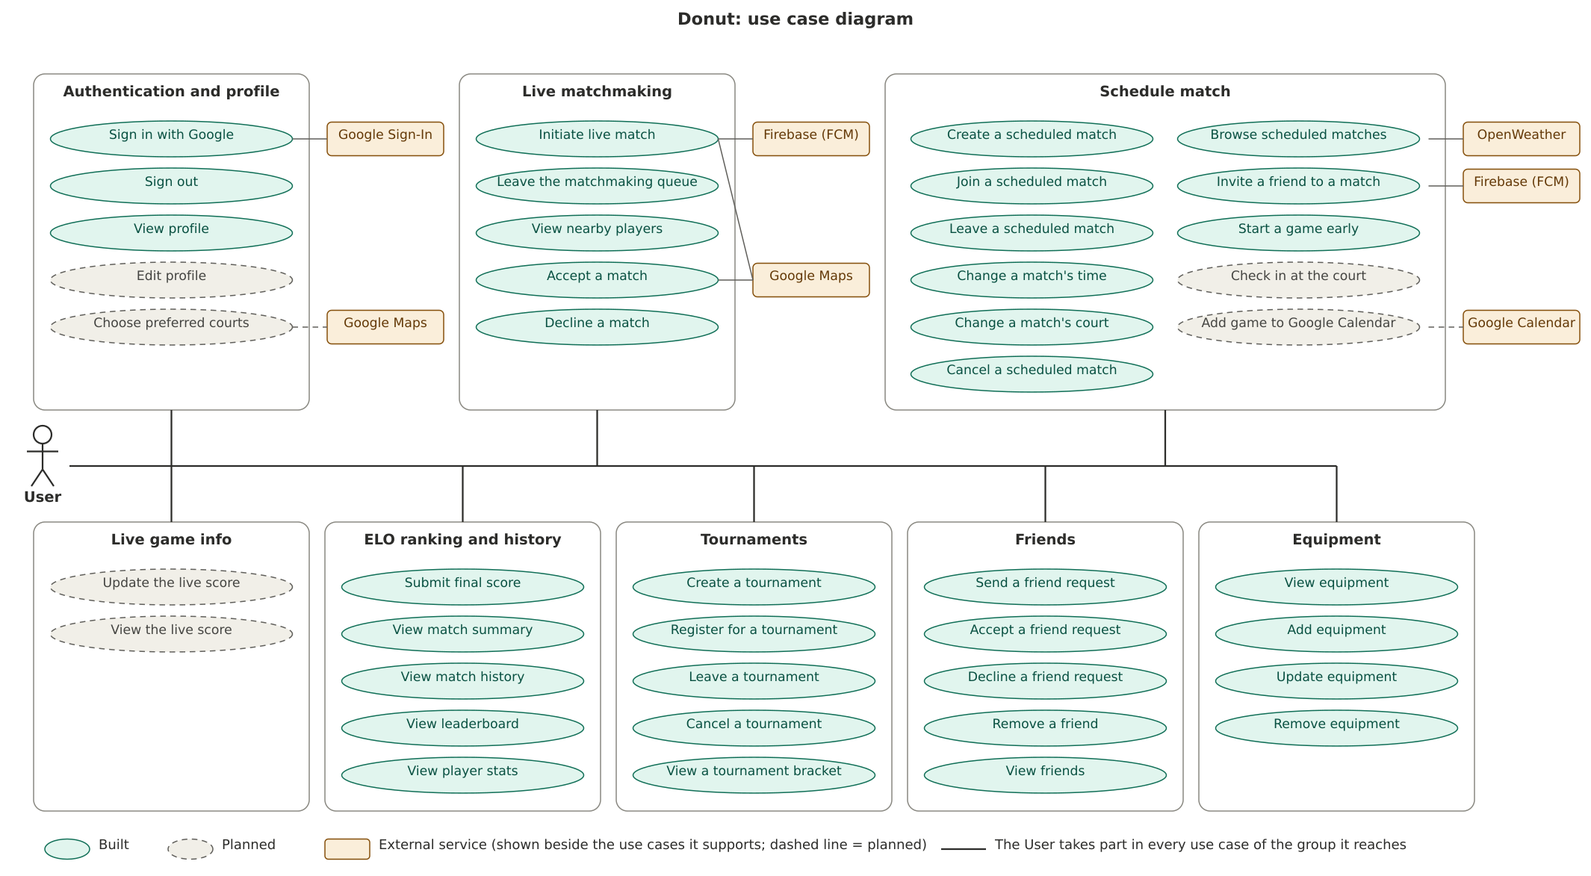
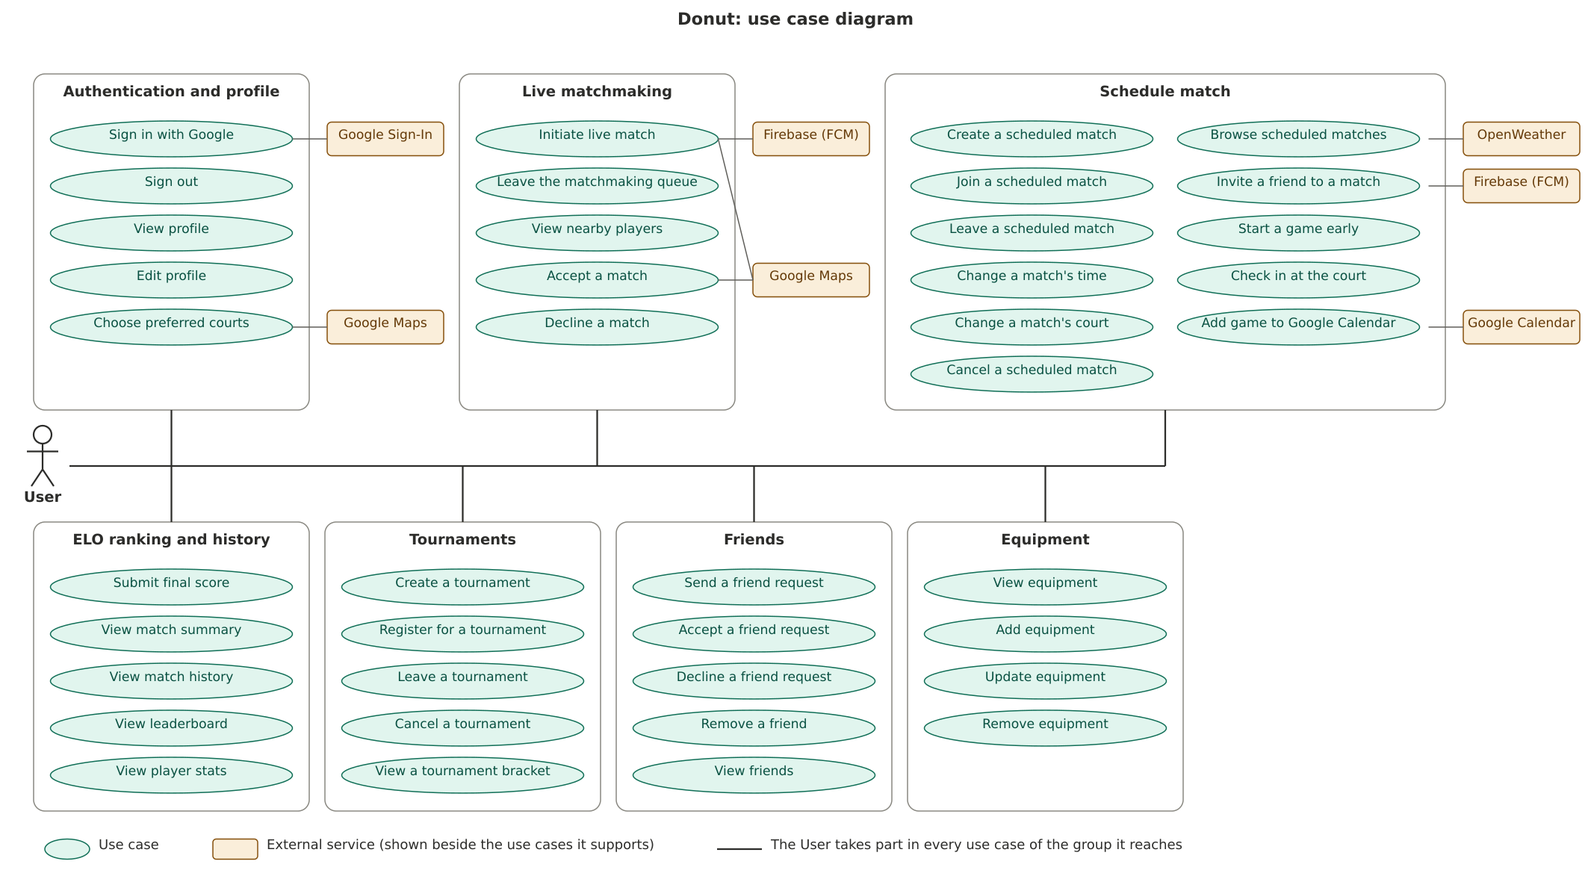
fix: some semantic stuff

diff --git a/documentation/Requirements_and_Design.md b/documentation/Requirements_and_Design.md
@@ -13,7 +13,7 @@
 | Nov 3, 2026 | 4.1, 4.2 | Added the Friends component and its `friendships` table. |
 | Nov 3, 2026 | 4.1 | Added `GET /games/history` and each player's `ratingBefore` and `ratingAfter`. |
 | Nov 3, 2026 | 4.1 | Added `POST /games/invite`, and updated `DELETE /games` for matched games. |
-| Nov 3, 2026 | All | Shortened the document and matched it to the code: token auth (`/user/refresh`, `/user/logout`), equipment, location-based matchmaking (`/matchmaking`, `POST /games/accept`, the deadline job), no game owner, and the libraries in use. Unbuilt parts are marked *(planned)*. |
+| Nov 3, 2026 | All | Shortened the document and matched it to the code: token auth (`/user/refresh`, `/user/logout`), equipment, location-based matchmaking (`/matchmaking`, `POST /games/accept`, the deadline job), no game owner, and the libraries in use. |
 | Nov 3, 2026 | 3.1, 3.3, 3.5 (Use Case 4), 4.3 | A scheduled game's court is picked from a list; the map shows a matched game's court. |
 | Nov 18, 2026 | 4.1 | The ELO K-factor depends on each player's number of rated games (`calculateKFactor`), counted by `applyGameResult`. |
 | Nov 18, 2026 | 3.1, 4.1 | Added player stats: `GET /stats` and the stats screen with the ELO chart. |
@@ -21,6 +21,7 @@
 | Nov 18, 2026 | 4.1 | `GET /games` and `GET /games/me` return each game's forecast too, so the game screen and the caller's games show the weather. |
 | Nov 19, 2026 | 4.1 | Live updates over Server-Sent Events for games, the Games tab, tournaments and friends. Games are `IN_PROGRESS` only once started with `POST /games/start`, and only then scored. Friends show the game they are playing. |
 | Nov 20, 2026 | 3.1, 3.2, 3.4, 3.5, 4.6 | Reviewer feedback on features and use cases: split use cases that had more than one goal, added the missing user-facing use cases (sign out, profile, leave the queue, decline a match, friends, equipment, match history, stats), moved system-only steps out of the use case list and gave every use case an active, user-focused name. Redrew the use case diagram. |
+| Nov 20, 2026 | 3.1, 3.2, 3.3, 3.4, 3.5, 3.7, 4.1, 4.3, 4.6, 4.7 | Every feature that was not yet built is now implemented, so the notes saying so are removed. Removed the live score feature, its use cases and its non-functional requirement: players report the score once after the game. Added a fifth formal use case, Join a scheduled match. |
 
 ---
 
@@ -35,19 +36,16 @@ Donut is a matchmaking and ranking app for recreational tennis players (singles 
 ### **3.1. List of Features**
 
 #### **Authentication**
-Users sign in with Google. The backend then issues its own access and refresh tokens. Users can sign out and view their profile. Editing the profile and picking preferred courts on a map are *(planned)*.
+Users sign in with Google. The backend then issues its own access and refresh tokens. Users can sign out, view and edit their profile, and pick their preferred courts on a map.
 
 #### **Live matchmaking**
 Users pick a format (singles, doubles or either) and where they want to play. The system matches nearby players with similar ratings, books a game one hour later at a nearby court and notifies everyone. The game is booked once every player accepts.
 
 #### **Schedule match**
-Users schedule a game for a future time at a court they pick from a list. It shows in the feed with the weather forecast, and others can join it or be invited by a friend. Adding it to Google Calendar is *(planned)*.
-
-#### **Live game info update** *(planned)*
-During a game, a player updates the score, and it syncs live to every other player's device.
+Users schedule a game for a future time at a court they pick from a list. It shows in the feed with the weather forecast, and others can join it or be invited by a friend. Users can add it to Google Calendar.
 
 #### **ELO ranking**
-After a game's final score is reported, every player's ELO rating changes, and a leaderboard ranks players by rating. A player's stats screen shows their ELO over time, their match, set and game totals, and how they do against opponents of different ratings.
+After a game's final score is reported once the game is over, every player's ELO rating changes, and a leaderboard ranks players by rating. A player's stats screen shows their ELO over time, their match, set and game totals, and how they do against opponents of different ratings.
 
 #### **Tournaments**
 Users create an 8-team single-elimination tournament (singles or doubles) that players register for from the feed. When it fills, the system forms and seeds the teams, draws the bracket and books the quarterfinals. Each reported score moves the winner on, up to the champion.
@@ -55,14 +53,14 @@ Users create an 8-team single-elimination tournament (singles or doubles) that p
 Supporting features: **friends** (requests, friends list, adding players from a match summary), **match history** with a summary per game, and **equipment** tracking (rackets, balls, shoes, with maintenance dates).
 
 **Project scope requirements:**
-- **External API**: Google Maps (picking courts), Google Places (picking where to play), OpenWeather (feed forecasts), Google Calendar *(planned)*.
-- **External event**: match notifications and game invites through Firebase Cloud Messaging; live score updates *(planned)*.
+- **External API**: Google Maps (picking courts), Google Places (picking where to play), OpenWeather (feed forecasts), Google Calendar (adding booked games).
+- **External event**: match notifications and game invites through Firebase Cloud Messaging.
 - **Our own computation**: the matching algorithm, ELO with margin of victory, and the tournament draw (rating-based seeding, balanced doubles teams, moving winners through the bracket).
 
 ### **3.2. Use Case Diagram**
 ![Use case diagram](images/use_case_diagram.png)
 
-Each use case is one goal that the User pursues directly, grouped by feature. To keep the diagram readable, the User is joined to each feature group with one line instead of one line per use case, and the User takes part in every use case in the group. Dashed use cases are *(planned)*. External services are drawn with plain lines because they support use cases but never start one; an external service that supports several groups is drawn beside each of them. Steps done by the system alone (matchmaking, cancelling unanswered matches, syncing live scores, the ELO calculation, updating the leaderboard, drawing the bracket) are not use cases; §3.4 describes them as steps of use cases 6, 9, 10, 22, 24 and 30. Viewing a tournament bracket (33) leads to playing its matches, which are use cases 19 and 24.
+Each use case is one goal that the User pursues directly, grouped by feature. To keep the diagram readable, the User is joined to each feature group with one line instead of one line per use case, and the User takes part in every use case in the group. External services are drawn with plain lines because they support use cases but never start one; an external service that supports several groups is drawn beside each of them. Steps done by the system alone (matchmaking, cancelling unanswered matches, the ELO calculation, updating the leaderboard, drawing the bracket) are not use cases; §3.4 describes them as steps of use cases 6, 9, 10, 22 and 28. Viewing a tournament bracket (31) leads to playing its matches, which are use cases 19 and 22.
 
 ### **3.3. Actors Description**
 1. **User**: a tennis player who signs in with Google, joins or is matched into games, and reports scores. Every player in a game has the same permissions on it.
@@ -70,7 +68,7 @@ Each use case is one goal that the User pursues directly, grouped by feature. To
 3. **Google Maps Platform**: shows a matched game's court on a map, and Places looks up where a player wants to play.
 4. **Firebase Cloud Messaging**: delivers match notifications and game invites.
 5. **OpenWeather**: supplies forecasts for the feed.
-6. **Google Calendar** *(planned)*: stores booked games in the player's calendar.
+6. **Google Calendar**: stores booked games in the player's calendar.
 
 ### **3.4. Use Case Description**
 Each use case is one goal of one user, named with an active verb. The numbers match the diagram in §3.2.
@@ -79,8 +77,8 @@ Each use case is one goal of one user, named with an active verb. The numbers ma
 1. **Sign in with Google**: The user signs in with their Google account; the server creates their account the first time and returns tokens.
 2. **Sign out**: The user signs out, and the server revokes their refresh token.
 3. **View profile**: The user views their profile and rating.
-4. **Edit profile** *(planned)*: The user changes their profile details.
-5. **Choose preferred courts** *(planned)*: The user picks their preferred courts on a map.
+4. **Edit profile**: The user changes their profile details.
+5. **Choose preferred courts**: The user picks their preferred courts on a map.
 
 - Feature 2: Live matchmaking
 6. **Initiate live match**: The user picks a format and a location (their current location or an address) and joins the queue. The system then looks for a match (see *System steps* below).
@@ -99,46 +97,41 @@ Each use case is one goal of one user, named with an active verb. The numbers ma
 17. **Change a match's court**: A player moves the game to another court.
 18. **Cancel a scheduled match**: A player cancels the game for everyone.
 19. **Start a game early**: A player of a booked game taps "Start now" so the game can start before its start time and be scored.
-20. **Check in at the court** *(planned)*: Each player confirms they are at the court within 30 minutes of the start, or the game is cancelled.
-21. **Add game to Google Calendar** *(planned)*: The user adds a booked game to their calendar.
+20. **Check in at the court**: Each player confirms they are at the court within 30 minutes of the start, or the game is cancelled.
+21. **Add game to Google Calendar**: The user adds a booked game to their calendar.
 
-- Feature 4: Live game info update *(planned)*
-22. **Update the live score** *(planned)*: A player updates the score during the game.
-23. **View the live score** *(planned)*: A player sees the score update on their device while the game is played.
+- Feature 4: ELO ranking and history
+22. **Submit final score**: Once the game has started, a player reports the final score, and every player sees the match summary with their rating change. A tournament match is reported the same way.
+23. **View match summary**: The user views a finished game's score and each player's rating before and after.
+24. **View match history**: The user views their finished games, most recent first.
+25. **View leaderboard**: The user views players ranked by rating, with their own rank.
+26. **View player stats**: The user views a player's ELO over time, match, set and game totals, and results against opponents of different ratings.
 
-- Feature 5: ELO ranking and history
-24. **Submit final score**: Once the game has started, a player reports the final score, and every player sees the match summary with their rating change. A tournament match is reported the same way.
-25. **View match summary**: The user views a finished game's score and each player's rating before and after.
-26. **View match history**: The user views their finished games, most recent first.
-27. **View leaderboard**: The user views players ranked by rating, with their own rank.
-28. **View player stats**: The user views a player's ELO over time, match, set and game totals, and results against opponents of different ratings.
+- Feature 5: Tournaments
+27. **Create a tournament**: The user creates a tournament with a name, format, court and start time, and is registered as its first player.
+28. **Register for a tournament**: The user registers from the feed until it is full (8 players in singles, 16 in doubles) or starts. The registration that fills it triggers the bracket draw (see *System steps* below).
+29. **Leave a tournament**: The user leaves during registration. The creator can't leave but can cancel it.
+30. **Cancel a tournament**: The creator cancels a tournament that is still in registration.
+31. **View a tournament bracket**: The user views the bracket and opens each match, which is played like any game (use cases 19 and 22).
 
-- Feature 6: Tournaments
-29. **Create a tournament**: The user creates a tournament with a name, format, court and start time, and is registered as its first player.
-30. **Register for a tournament**: The user registers from the feed until it is full (8 players in singles, 16 in doubles) or starts. The registration that fills it triggers the bracket draw (see *System steps* below).
-31. **Leave a tournament**: The user leaves during registration. The creator can't leave but can cancel it.
-32. **Cancel a tournament**: The creator cancels a tournament that is still in registration.
-33. **View a tournament bracket**: The user views the bracket and opens each match, which is played like any game (use cases 19 and 24).
+- Feature 6: Friends
+32. **Send a friend request**: The user asks another player to be friends, including from a match summary.
+33. **Accept a friend request**: The user accepts a request they received.
+34. **Decline a friend request**: The user declines a request they received.
+35. **Remove a friend**: The user removes a friend from their friends list.
+36. **View friends**: The user views their friends and the game each one is playing.
 
-- Feature 7: Friends
-34. **Send a friend request**: The user asks another player to be friends, including from a match summary.
-35. **Accept a friend request**: The user accepts a request they received.
-36. **Decline a friend request**: The user declines a request they received.
-37. **Remove a friend**: The user removes a friend from their friends list.
-38. **View friends**: The user views their friends and the game each one is playing.
-
-- Feature 8: Equipment
-39. **View equipment**: The user views their rackets, balls and shoes, with maintenance dates.
-40. **Add equipment**: The user adds an item and can make it their default.
-41. **Update equipment**: The user changes an item's name, default status or maintenance date.
-42. **Remove equipment**: The user retires an item.
+- Feature 7: Equipment
+37. **View equipment**: The user views their rackets, balls and shoes, with maintenance dates.
+38. **Add equipment**: The user adds an item and can make it their default.
+39. **Update equipment**: The user changes an item's name, default status or maintenance date.
+40. **Remove equipment**: The user retires an item.
 
 **System steps (not use cases).** The user does not do these directly, so they are not in the diagram:
 - *Matchmaking* (part of use case 6): every 10 seconds, the system groups queued players who want a compatible format, are within 10 km of each other and have close ratings, books a game one hour later at a court near them and notifies everyone.
 - *Cancelling unanswered matches* (part of use cases 9 and 10): if anyone declines, or not everyone has accepted 30 minutes before the start, the system cancels the match for everyone.
-- *Live game data syncing* (part of use case 22) *(planned)*: the score updates on every player's device.
-- *ELO change calculation and leaderboard update* (part of use case 24): the system calculates each player's rating change and applies it to the leaderboard.
-- *Bracket draw* (part of use case 30): when a tournament fills, the system forms the teams (in doubles, strongest with weakest), seeds them by rating, draws the bracket (1 v 8, 4 v 5, 3 v 6, 2 v 7) and books the quarterfinals. Each reported score moves the winner on, books the next match once both teams are known (semifinals one hour after the start, the final two hours after), and the final completes the tournament.
+- *ELO change calculation and leaderboard update* (part of use case 22): the system calculates each player's rating change and applies it to the leaderboard.
+- *Bracket draw* (part of use case 28): when a tournament fills, the system forms the teams (in doubles, strongest with weakest), seeds them by rating, draws the bracket (1 v 8, 4 v 5, 3 v 6, 2 v 7) and books the quarterfinals. Each reported score moves the winner on, books the next match once both teams are known (semifinals one hour after the start, the final two hours after), and the final completes the tournament.
 
 ### **3.5. Formal Use Case Specifications (5 Most Major Use Cases)**
 <a name="uc1"></a>
@@ -172,7 +165,7 @@ Each use case is one goal of one user, named with an active verb. The numbers ma
 
 <a name="uc2"></a>
 
-#### Use Case 2: Check in to a scheduled match *(planned)*
+#### Use Case 2: Check in to a scheduled match
 **Description**: At a booked game's start time, each player confirms they are at the court. The game starts once all confirm within 30 minutes, otherwise it is cancelled.
 
 **Primary actor(s)**: User
@@ -245,25 +238,28 @@ Each use case is one goal of one user, named with an active verb. The numbers ma
 
 <a name="uc5"></a>
 
-#### Use Case 5: Update the live score *(planned)*
-**Description**: During a started game, a player enters each set's score, and the system pushes it to every other player in real time.
+#### Use Case 5: Join a scheduled match
+**Description**: The user joins an open scheduled game from the feed, or from a friend's invite, on the team of their choice.
 
 **Primary actor(s)**: User
 
-**Preconditions**: The user is signed in and is a player in a started game with no final score.
+**Preconditions**: The user is signed in, and the game is an open scheduled game that hasn't started and has a free spot on the user's chosen team.
 
-**Postconditions**: The new score is saved, and every player with the game open sees it.
+**Postconditions**: The user is a player on the chosen team. If theirs was the last free spot, the game is booked.
 
 **Main success scenario**:
-1. The user opens the current game, which connects to its live updates.
-2. The user changes a set's score, or starts a new set, and saves it.
-3. The system validates and saves it, then sends it to every connected player.
-4. Each other player's app shows the new score without refreshing.
+1. The user opens the Games tab and sees the feed of open games, each with its players and ratings, format, court and forecast. Alternatively, the user taps a friend's invite notification, which opens the game.
+2. The user opens a game and picks a team that has a free spot.
+3. The user taps "Join".
+4. The system checks that the game is open, scheduled and hasn't started, and that the team has a free spot. It adds the user to the team under the game's row lock.
+5. If the user took the last free spot, the system books the game.
+6. The app shows the game with the user on their team, and it appears in "My games".
 
 **Failure scenario(s)**:
-- 3a. The score is invalid, or the game already has a final score: the system rejects it.
-- 3b. The server can't be reached: the app keeps the unsaved score and the user can retry.
-- 4a. A player's app is offline: it loads the latest score when it reconnects.
+- 1a. The invited game is no longer open: the game screen shows its current state and the user can't join.
+- 4a. The game is full, already started or closed: the system rejects the request (`409`) and the app shows an error.
+- 4b. Two players take the last spot at the same time: the row lock lets one join, and the other is rejected (`409`).
+- 4c. The server can't be reached: the app shows an error and the user can retry.
 
 ### **3.6. Screen Mock-ups**
 Not included. The formal use cases describe each screen.
@@ -271,19 +267,13 @@ Not included. The formal use cases describe each screen.
 ### **3.7. Non-Functional Requirements**
 <a name="nfr1"></a>
 
-1. **Live score sync latency** *(planned with the live score)*
-    - **Description**: 95% of score updates reach every other connected player within 1 second.
-    - **Justification**: 1 second is the limit for keeping a user's flow uninterrupted (Nielsen Norman Group); players check the score between points.
-
-<a name="nfr2"></a>
-
-2. **API response time**
+1. **API response time**
     - **Description**: 95% of REST requests (feed, create, join, accept, score) respond within 500 ms with 50 concurrent users.
     - **Justification**: Players open the app right before playing, often on mobile data, so 500 ms leaves room for the network within the 1-second limit. 50 concurrent users is above the expected load in one city.
 
-<a name="nfr3"></a>
+<a name="nfr2"></a>
 
-3. **Match found latency**
+2. **Match found latency**
     - **Description**: When compatible players are queued, 95% are matched and notified within 60 seconds of the last one joining.
     - **Justification**: Matched players play within the hour and must accept 30 minutes before the start. The job runs every 10 seconds, so 60 seconds allows for missed runs and notification delivery.
 
@@ -310,7 +300,7 @@ Every route except `POST /user/login`, `POST /user/refresh` and `POST /user/logo
             - **Purpose**: The caller's equipment (`RACKET`, `BALLS`, `SHOES` or `OTHER`), default items first. Deleting retires the item. `404` "Equipment not found".
         6. `GET /courts` → `{ courts: { id, name, latitude, longitude }[] }` - E
             - **Purpose**: Every court, by name, for the court picker.
-        7. `PUT /user/me/courts` with `{ courtIds }` → `Court[]` *(planned)* - E
+        7. `PUT /user/me/courts` with `{ courtIds }` → `Court[]` - E
             - **Purpose**: Replaces the caller's preferred courts.
         8. `string[] getFcmTokens(userIds)`, `void clearFcmTokens(tokens)` - In
             - **Purpose**: Used by Matchmaking and Games to send notifications and drop dead tokens.
@@ -344,7 +334,7 @@ Every route except `POST /user/login`, `POST /user/refresh` and `POST /user/logo
             - **Purpose**: Reports the final score of an `IN_PROGRESS` game. In one transaction it saves the rounds, completes the game, updates ratings (`applyGameResult`) and, for a tournament game, advances the bracket (`advanceBracket`). `400` for an invalid score, `409` if not started (`GAME_NOT_STARTED`), already reported, a team isn't full, or Postgres aborts the transaction on a deadlock.
         13. `GET /games/events` with `gameId`, `GET /games/feed/events` → Server-Sent Events - E
             - **Purpose**: Live updates, pushed instead of polled. Each stream sends the current state when it opens, then again after every change, plus a heartbeat every 25 s. A game's stream sends `gameUpdated` (`{ game }`, like `GET /games`) or `gameDeleted`; the Games tab's sends `feed` (games and tournaments open to join, the same for everyone) and `mine` (the caller's), each `{ games, tournaments }`. Services announce changes (`events/changes.ts`) and `live/live.ts` pushes them, loading nothing when no one is watching. A user has at most 10 streams open; past that their oldest is closed. The app keeps a stream open only while its screen is visible, and reconnects whenever one ends.
-        14. `POST /games/check-in` *(planned)* - E
+        14. `POST /games/check-in` - E
             - **Purpose**: Check-in at the court.
 3. **Matchmaking**
     - **Purpose**: The matchmaking queue, the matching algorithm, and the jobs that run it every 10 seconds and cancel unanswered matches every minute.
@@ -428,7 +418,7 @@ Every route except `POST /user/login`, `POST /user/refresh` and `POST /user/logo
     - **Interfaces we call**:
         1. `GET /data/2.5/forecast?lat&lon&units=metric&appid` - called by Games and Tournaments
             - **Purpose**: Picks the 3-hour step nearest the start time (within 1.5 hours). Not called for a start time more than 3 hours ago or more than 5 days away. Cached per court for 10 minutes, with a 2-second timeout; without `OPENWEATHER_API_KEY` or on failure, games have no forecast.
-5. **Google Calendar API** *(planned)*
+5. **Google Calendar API**
     - **Purpose**: Adds a booked game to the player's calendar.
     - **Interfaces we call**:
         1. `POST /calendars/primary/events` - called by the front-end
@@ -473,14 +463,12 @@ An arrow from A to B means A calls an interface of B. Arrows touching the Backen
 
 ![Create a scheduled match sequence diagram](images/seq_create_scheduled_match.png)
 
-5. [**Update the live score**](#uc5)
+5. [**Join a scheduled match**](#uc5)
 
-![Update the live score sequence diagram](images/seq_update_game_info.png)
+![Join a scheduled match sequence diagram](images/seq_join_scheduled_match.png)
 
 ### **4.7. Design of Non-Functional Requirements**
-1. [**Live score sync latency**](#nfr1)
-    - **Implementation**: Each player with a game open keeps its Server-Sent Events stream (`GET /games/events`) open, and a saved score is pushed to it right after it is written, over the connection already open.
-2. [**API response time**](#nfr2)
+1. [**API response time**](#nfr1)
     - **Implementation**: The columns we filter on most are indexed, the feed loads games, players and ratings in one query, forecasts are cached per court for 10 minutes with a 2-second timeout, and matchmaking runs outside the request path.
-3. [**Match found latency**](#nfr3)
+2. [**Match found latency**](#nfr2)
     - **Implementation**: The matchmaking job runs every 10 seconds without overlapping runs. The greedy matcher sorts each format's queue once, so a run takes milliseconds, and notifications are sent right after each match commits.
